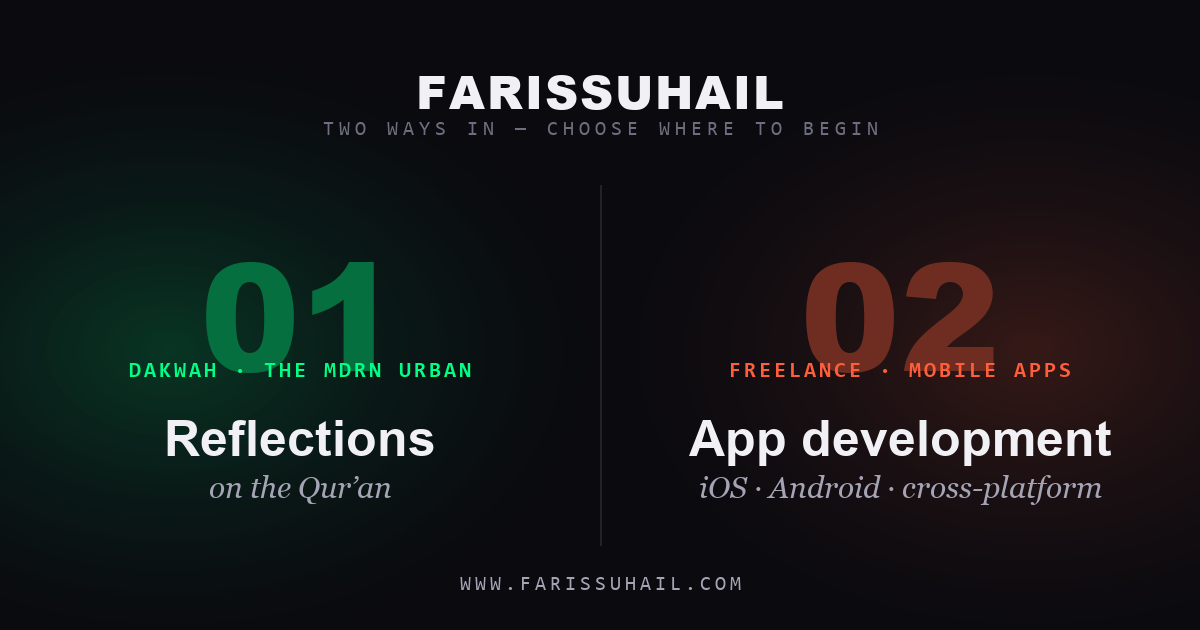
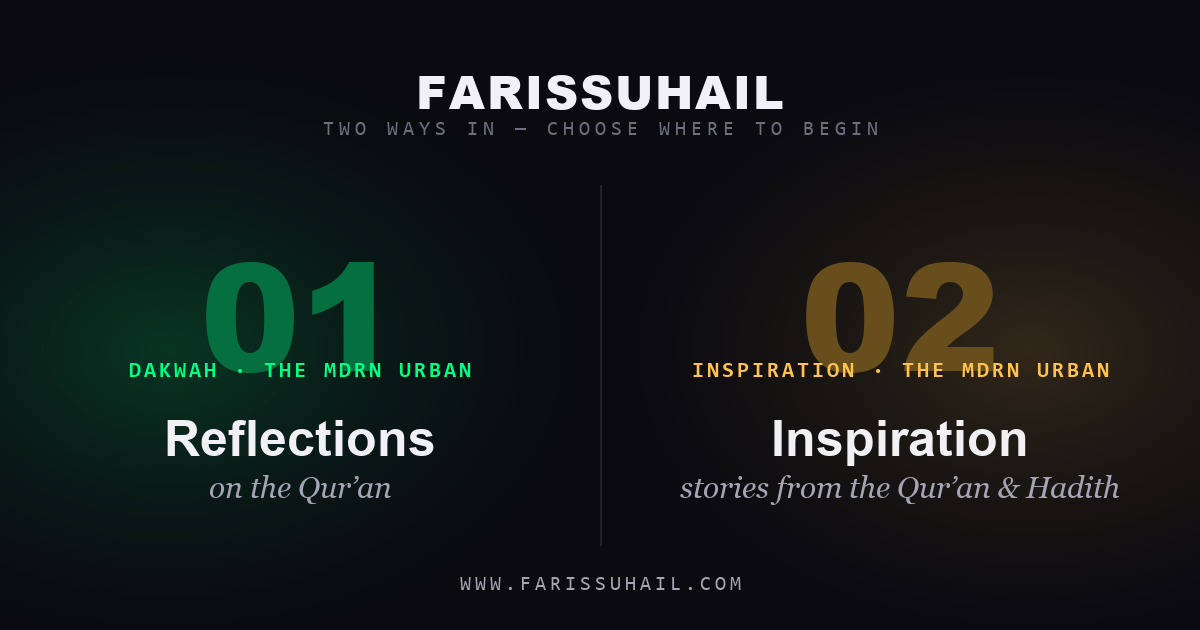
Add Inspiration Story No. 02 (Penat Yang Berbaloi) + all OG share cards
- penat-yang-berbaloi.html: Al-Insyiqaq 84:6, rephrased BM, gold theme
- inspiration.html: now features 2 stories (Penat No.02 latest, Tahap No.01)
- tahap-demi-tahap.html: renumbered to No. 01
- OG cards generated for home (green/gold), inspiration hub, both stories;
  home card right door updated to Inspiration Stories

Changed region(s): [[0.555, 0.6635, 0.925, 0.8143], [0.555, 0.3921, 0.925, 0.6032]]

diff --git a/penat-yang-berbaloi.html b/penat-yang-berbaloi.html
@@ -1,0 +1,260 @@
+<!DOCTYPE html>
+<html lang="ms">
+<head>
+  <meta charset="UTF-8" />
+  <meta name="viewport" content="width=device-width, initial-scale=1.0" />
+  <meta name="description" content="Penat yang berbaloi — mengapa jalan menuju Allah penuh penat lelah, dan ke mana sebenarnya segala penat itu membawa kita. Kisah inspirasi dari Surah Al-Insyiqaq (84:6) oleh The Mdrn Urban." />
+  <title>Penat Yang Berbaloi · Al-Insyiqaq · The Mdrn Urban</title>
+  <link rel="icon" type="image/svg+xml" href="favicon.svg" />
+  <meta name="theme-color" content="#0a0a0f" />
+
+  <!-- Open Graph -->
+  <meta property="og:type" content="article" />
+  <meta property="og:site_name" content="Faris Suhail · The Mdrn Urban" />
+  <meta property="og:title" content="Penat yang berbaloi — ke mana penat ini membawa kita?" />
+  <meta property="og:description" content="Allah memilih perkataan 'kadih' — berpenat, berjuang, bersusah payah. Hidup memang penat. Persoalannya, ke mana penat itu membawa kita? Al-Insyiqaq 84:6." />
+  <meta property="og:url" content="https://farissuhail.com/penat-yang-berbaloi.html" />
+  <meta property="og:image" content="https://farissuhail.com/assets/og-penat-yang-berbaloi.png" />
+  <meta property="og:image:width" content="1200" />
+  <meta property="og:image:height" content="630" />
+  <meta property="og:image:alt" content="Penat Yang Berbaloi — Al-Insyiqaq. Kisah inspirasi oleh The Mdrn Urban." />
+  <!-- Twitter -->
+  <meta name="twitter:card" content="summary_large_image" />
+  <meta name="twitter:title" content="Penat yang berbaloi — ke mana penat ini membawa kita?" />
+  <meta name="twitter:description" content="Hidup memang penat. Persoalannya, ke mana penat itu membawa kita? Al-Insyiqaq 84:6." />
+  <meta name="twitter:image" content="https://farissuhail.com/assets/og-penat-yang-berbaloi.png" />
+
+  <link rel="preconnect" href="https://fonts.googleapis.com" />
+  <link rel="preconnect" href="https://fonts.gstatic.com" crossorigin />
+  <link href="https://fonts.googleapis.com/css2?family=Inter:wght@400;500;600;700;800;900&family=JetBrains+Mono:wght@400;500;700&family=Cormorant+Garamond:ital,wght@0,400;0,500;0,600;0,700;1,400;1,500&family=Amiri:wght@400;700&display=swap" rel="stylesheet" />
+  <link rel="stylesheet" href="style.css" />
+  <link rel="stylesheet" href="inspiration-story.css" />
+  <style>
+    .rf-ayah {
+      font-family: 'Amiri', serif;
+      font-size: clamp(28px, 4.6vw, 48px);
+      line-height: 2;
+      color: var(--text);
+      direction: rtl;
+      margin: 0 0 22px;
+    }
+    .rf-ayah-tr {
+      font-family: 'Cormorant Garamond', Georgia, serif;
+      font-style: italic;
+      font-size: clamp(21px, 2.6vw, 30px);
+      line-height: 1.4;
+      color: var(--text);
+      margin: 0 0 12px;
+    }
+    .rf-ayah-ref {
+      font-family: 'JetBrains Mono', monospace;
+      font-size: 12px;
+      letter-spacing: 0.12em;
+      color: var(--accent);
+      text-transform: uppercase;
+      margin: 0 0 26px;
+    }
+  </style>
+</head>
+<body class="inspiration-story">
+
+<!-- Minimal nav -->
+<header class="rf-nav">
+  <a href="index.html" class="brand">
+    <span class="brand-name">FARISSUHAIL</span>
+  </a>
+  <a href="inspiration.html" class="rf-back">← <span>Semua kisah inspirasi</span></a>
+</header>
+
+<main>
+
+  <!-- ===== HERO ===== -->
+  <section class="rf-hero">
+    <div class="rf-publisher">THE MDRN URBAN · 02</div>
+    <div class="rf-surah">SURAH 84</div>
+    <h1 class="rf-title">
+      <span class="rf-the">kadih —</span>
+      <span class="rf-cow">PENAT</span>
+    </h1>
+    <div class="rf-arabic">AL-INSYIQAQ</div>
+    <p class="rf-deck">
+      Mengapa jalan menuju Allah terasa penuh penat lelah — dan ke mana sebenarnya segala penat itu sedang membawa kita.
+    </p>
+    <div class="rf-meta">
+      <span>Kisah inspirasi</span>
+      <span>·</span>
+      <span>Al-Insyiqaq 84:6</span>
+      <span>·</span>
+      <span>Baca perlahan</span>
+    </div>
+    <div class="rf-scroll-hint" aria-hidden="true">↓ Tatal untuk mula</div>
+  </section>
+
+  <!-- 01 — THE QUESTIONS -->
+  <section class="rf-slide" data-num="01">
+    <div class="rf-eyebrow">Soalan yang sering terlintas</div>
+    <ol class="rf-questions">
+      <li><span>01</span> "Kenapa jalan menuju Allah ini susah?"</li>
+      <li><span>02</span> "Kenapa terlalu banyak ujian?"</li>
+      <li><span>03</span> "Kenapa hidup ini penuh penat lelah?"</li>
+    </ol>
+    <p class="rf-body">
+      Soalan-soalan ini bermain di fikiran hampir setiap kita. Dan sebenarnya, Surah Al-Insyiqaq sudah pun menjawabnya.
+    </p>
+  </section>
+
+  <!-- 02 — THE VERSE 84:6 -->
+  <section class="rf-slide rf-slide-accent" data-num="02">
+    <div class="rf-eyebrow">Allah berfirman</div>
+    <p class="rf-ayah" lang="ar" dir="rtl">يَا أَيُّهَا الْإِنْسَانُ إِنَّكَ كَادِحٌ إِلَىٰ رَبِّكَ كَدْحًا فَمُلَاقِيهِ</p>
+    <p class="rf-ayah-tr">"Wahai manusia, sesungguhnya engkau sedang berusaha bersungguh-sungguh menuju Tuhanmu, lalu engkau pasti akan menemui-Nya."</p>
+    <p class="rf-ayah-ref">Al-Insyiqaq 84:6</p>
+  </section>
+
+  <!-- 03 — THE WORD -->
+  <section class="rf-slide" data-num="03">
+    <div class="rf-eyebrow">Perhatikan perkataan yang Allah pilih</div>
+    <p class="rf-ayah" lang="ar" dir="rtl" style="margin-bottom:30px">كَادِح</p>
+    <h2 class="rf-big">
+      Bukan berjalan. Bukan bersantai. Tetapi <em>berpenat.</em>
+    </h2>
+    <p class="rf-body">
+      Bukan melenggang santai, bukan bersiar-siar. Allah memilih perkataan yang membawa makna berjuang, bertungkus-lumus, bersusah payah sehingga letih.
+    </p>
+  </section>
+
+  <!-- 04 — THE HILL -->
+  <section class="rf-slide" data-num="04">
+    <h2 class="rf-quote">
+      Seperti orang mendaki bukit — semakin tinggi dia naik, semakin berat nafasnya, semakin terasa <em>letihnya.</em>
+    </h2>
+  </section>
+
+  <!-- 05 — LIFE IS HARD -->
+  <section class="rf-slide" data-num="05">
+    <div class="rf-eyebrow">Dan bukan jalan menuju Allah sahaja</div>
+    <h2 class="rf-big">
+      Hidup itu sendiri <em>memang penat.</em>
+    </h2>
+    <p class="rf-body">
+      Ayat ini menyingkap satu kebenaran yang ramai cuba elak: kepenatan bukan tanda kita salah jalan. Ia tabiat dunia itu sendiri.
+    </p>
+  </section>
+
+  <!-- 06 — EVERYONE IS TESTED -->
+  <section class="rf-slide" data-num="06">
+    <div class="rf-eyebrow">Tiada siapa terkecuali</div>
+    <ul class="rf-commands">
+      <li>Yang solat, ada ujiannya.</li>
+      <li>Yang meninggalkan solat pun, ada ujiannya.</li>
+      <li>Yang menjaga agama, ada ujiannya.</li>
+      <li>Yang mengabaikan agama pun, ada ujiannya.</li>
+    </ul>
+  </section>
+
+  <!-- 07 — THE DIFFERENCE -->
+  <section class="rf-slide rf-slide-accent" data-num="07">
+    <div class="rf-eyebrow">Maka bezanya bukan pada penat itu</div>
+    <h2 class="rf-quote">
+      Satu penat <em>menuju</em> Allah. Satu lagi penat <em>menjauhi</em>-Nya.
+    </h2>
+    <p class="rf-body">
+      Satu kepenatan yang akhirnya membawa kepada pertemuan dengan Tuhan. Satu lagi kepenatan yang berakhir dengan penyesalan.
+    </p>
+  </section>
+
+  <!-- 08 — TIRED MODE -->
+  <section class="rf-slide" data-num="08">
+    <div class="rf-eyebrow">Kita semua diletakkan dalam mod penat</div>
+    <ul class="rf-commands">
+      <li>Penat bekerja.</li>
+      <li>Penat menguruskan keluarga.</li>
+      <li>Penat mencari rezeki.</li>
+      <li>Penat di sepanjang jalan.</li>
+    </ul>
+    <p class="rf-body">
+      Segala macam penat. Tetapi soalan sebenarnya — penat itu sedang membawa kita ke mana?
+    </p>
+  </section>
+
+  <!-- 09 — MOVING TOWARD HIM -->
+  <section class="rf-slide" data-num="09">
+    <div class="rf-eyebrow">Tanpa kita sedar</div>
+    <h2 class="rf-big">
+      Setiap uban. Setiap kedut. Setiap tahun yang <em>berlalu.</em>
+    </h2>
+    <p class="rf-body">
+      Setiap secebis tenaga yang berkurang sebenarnya sedang menggerakkan kita menuju penghujung ayat ini:
+    </p>
+    <p class="rf-ayah" lang="ar" dir="rtl" style="margin-top:24px">فَمُلَاقِيهِ</p>
+    <p class="rf-ayah-tr">"Lalu engkau pasti akan menemui-Nya."</p>
+    <p class="rf-ayah-ref">Al-Insyiqaq 84:6</p>
+  </section>
+
+  <!-- 10 — GETTING CLOSER -->
+  <section class="rf-slide rf-slide-accent" data-num="10">
+    <h2 class="rf-quote">
+      Kita mungkin rasa perjalanan ini masih jauh. Tetapi setiap hari, sedar atau tidak, kita sebenarnya <em>semakin hampir dengan Allah.</em>
+    </h2>
+  </section>
+
+  <!-- 11 — THE REAL QUESTION -->
+  <section class="rf-slide rf-slide-quiet" data-num="11">
+    <h2 class="rf-mega">
+      Ke mana kita bawa <em>penat ini?</em>
+    </h2>
+    <p class="rf-body">
+      Kita semua sedang menuju Allah. Persoalannya bukan sama ada perjalanan ini susah atau tidak — ia memang susah. Persoalannya, ke mana kita membawa segala penat itu.
+    </p>
+  </section>
+
+  <!-- 12 — ONE LINE TO KEEP -->
+  <section class="rf-slide rf-slide-accent" data-num="12">
+    <div class="rf-eyebrow">Satu baris untuk disimpan</div>
+    <h2 class="rf-quote">
+      Penat itu pasti. Yang kita pilih hanyalah arahnya.
+    </h2>
+    <p class="rf-tagline">
+      Penat yang <em>berbaloi</em> — atau sia-sia di akhirat nanti?
+    </p>
+  </section>
+
+  <!-- 13 — CLOSING -->
+  <section class="rf-slide rf-closing" data-num="13">
+    <div class="rf-publisher">AL-INSYIQAQ</div>
+    <h2 class="rf-big">Penat Yang Berbaloi · Al-Insyiqaq 84:6</h2>
+    <p class="rf-body">
+      Simpan ini. Kongsikan dengan seseorang yang sedang <em>keletihan</em> di tengah perjalanannya.
+    </p>
+    <div class="rf-credit">
+      <div>THE MDRN URBAN · MODERNLINE</div>
+      <a href="https://farissuhail.com">www.farissuhail.com</a>
+    </div>
+
+    <div class="rf-actions">
+      <a href="tahap-demi-tahap.html" class="btn btn-ghost btn-lg">← Tahap demi tahap</a>
+      <a href="inspiration.html" class="btn btn-primary btn-lg">Semua kisah →</a>
+    </div>
+  </section>
+
+</main>
+
+<footer class="rf-footer">
+  <p>
+    <a href="index.html">FARISSUHAIL</a> &nbsp;·&nbsp;
+    <span>Kisah inspirasi oleh THE MDRN URBAN</span> &nbsp;·&nbsp;
+    <span>© <span id="year"></span></span>
+  </p>
+</footer>
+
+<script>
+  document.getElementById('year').textContent = new Date().getFullYear();
+  const io = new IntersectionObserver((entries) => {
+    entries.forEach(en => {
+      if (en.isIntersecting) { en.target.classList.add('in-view'); io.unobserve(en.target); }
+    });
+  }, { threshold: 0.15 });
+  document.querySelectorAll('.rf-slide').forEach(s => io.observe(s));
+</script>
+</body>
+</html>

diff --git a/inspiration.html b/inspiration.html
@@ -68,7 +68,7 @@
       Short, designed stories that take an everyday moment — a growing child, a fading sunset, a quiet habit — and read it through the Qur'an &amp; Hadith. Made to pause over, save, and share.
     </p>
     <div class="hub-stats">
-      <span data-en="1 story live" data-bm="1 kisah tersedia">1 story live</span>
+      <span data-en="2 stories live" data-bm="2 kisah tersedia">2 stories live</span>
       <span class="sep">·</span>
       <span data-en="More on the way" data-bm="Lagi akan datang">More on the way</span>
       <span class="sep">·</span>
@@ -76,10 +76,43 @@
     </div>
   </section>
 
-  <!-- ===== FEATURED: TAHAP DEMI TAHAP ===== -->
+  <!-- ===== FEATURED: PENAT YANG BERBALOI (No. 02) ===== -->
   <section class="hub-section">
     <div class="hub-section-head">
       <h2 data-en="Latest story" data-bm="Kisah terkini">Latest story</h2>
+      <span class="count" data-en="No. 02" data-bm="No. 02">No. 02</span>
+    </div>
+
+    <a href="penat-yang-berbaloi.html" class="ref-featured" aria-label="Read: Penat Yang Berbaloi — Al-Insyiqaq">
+      <div class="ref-cover" aria-hidden="true">
+        <div class="ref-cover-surah">SURAH 84</div>
+        <div class="ref-cover-the">kadih —</div>
+        <div class="ref-cover-word">PENAT</div>
+        <div class="ref-cover-arabic">AL-INSYIQAQ</div>
+      </div>
+      <div class="ref-body">
+        <div class="ref-badges">
+          <span class="ref-badge live" data-en="Live" data-bm="Tersedia">Live</span>
+          <span class="ref-badge">Al-Insyiqaq 84:6</span>
+          <span class="ref-badge" data-en="3 min read" data-bm="Baca 3 minit">3 min read</span>
+        </div>
+        <h3 data-en="Penat yang berbaloi — <em>where is your striving taking you?</em>"
+            data-bm="Penat yang berbaloi — <em>ke mana penat ini membawa kita?</em>">
+          Penat yang berbaloi — <em>where is your striving taking you?</em>
+        </h3>
+        <p data-en="Allah chose the word 'kadih' — to toil, to struggle, to wear yourself out. Life is tiring for everyone. The real question isn't whether the road is hard — it's where all that tiredness is carrying us."
+           data-bm="Allah memilih perkataan 'kadih' — berpenat, berjuang, bersusah payah. Hidup ini memang penat untuk semua. Persoalannya bukan sama ada jalan ini susah — tetapi ke mana segala penat itu membawa kita.">
+          Allah chose the word 'kadih' — to toil, to struggle, to wear yourself out. Life is tiring for everyone. The real question isn't whether the road is hard — it's where all that tiredness is carrying us.
+        </p>
+        <span class="ref-cta" data-en="Read the story →" data-bm="Baca kisah →">Read the story →</span>
+      </div>
+    </a>
+  </section>
+
+  <!-- ===== FEATURED: TAHAP DEMI TAHAP (No. 01) ===== -->
+  <section class="hub-section">
+    <div class="hub-section-head">
+      <h2 data-en="Earlier in the series" data-bm="Lebih awal dalam siri">Earlier in the series</h2>
       <span class="count" data-en="No. 01" data-bm="No. 01">No. 01</span>
     </div>
 
@@ -169,6 +202,7 @@
     <div class="footer-col">
       <div class="footer-h" data-en="Dakwah" data-bm="Dakwah">Dakwah</div>
       <ul>
+        <li><a href="penat-yang-berbaloi.html">Penat Yang Berbaloi ✦</a></li>
         <li><a href="tahap-demi-tahap.html">Tahap Demi Tahap ✦</a></li>
         <li><a href="reflections.html" data-en="Reflections on the Qur'an" data-bm="Refleksi Al-Quran">Reflections on the Qur'an</a></li>
       </ul>

diff --git a/tahap-demi-tahap.html b/tahap-demi-tahap.html
@@ -71,7 +71,7 @@
 
   <!-- ===== HERO ===== -->
   <section class="rf-hero">
-    <div class="rf-publisher">THE MDRN URBAN · 02</div>
+    <div class="rf-publisher">THE MDRN URBAN · 01</div>
     <div class="rf-surah">SURAH 84</div>
     <h1 class="rf-title">
       <span class="rf-the">tahap demi</span>